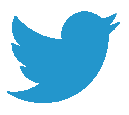
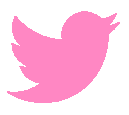
back to pink

diff --git a/css/main.css b/css/main.css
@@ -131,7 +131,7 @@ textarea {
     margin-right: 15%;
     padding-top: 200px;
     width: 40%;
-    color: #2396CC;
+    color: #ff87c3;
 }
 
 .intro-text {
@@ -139,7 +139,7 @@ textarea {
     float: right;
     margin-right: 15%;
     width: 40%;
-    color: #2396CC;
+    color: #ff87c3;
 }
 
 .cover__icon {
@@ -285,7 +285,7 @@ a:visited {
 .contact-text {
     width: 40%;
     padding-top: 200px;
-    color: #2396CC;
+    color: #ff87c3;
     float: right;
     margin-right: 15%;
 }
